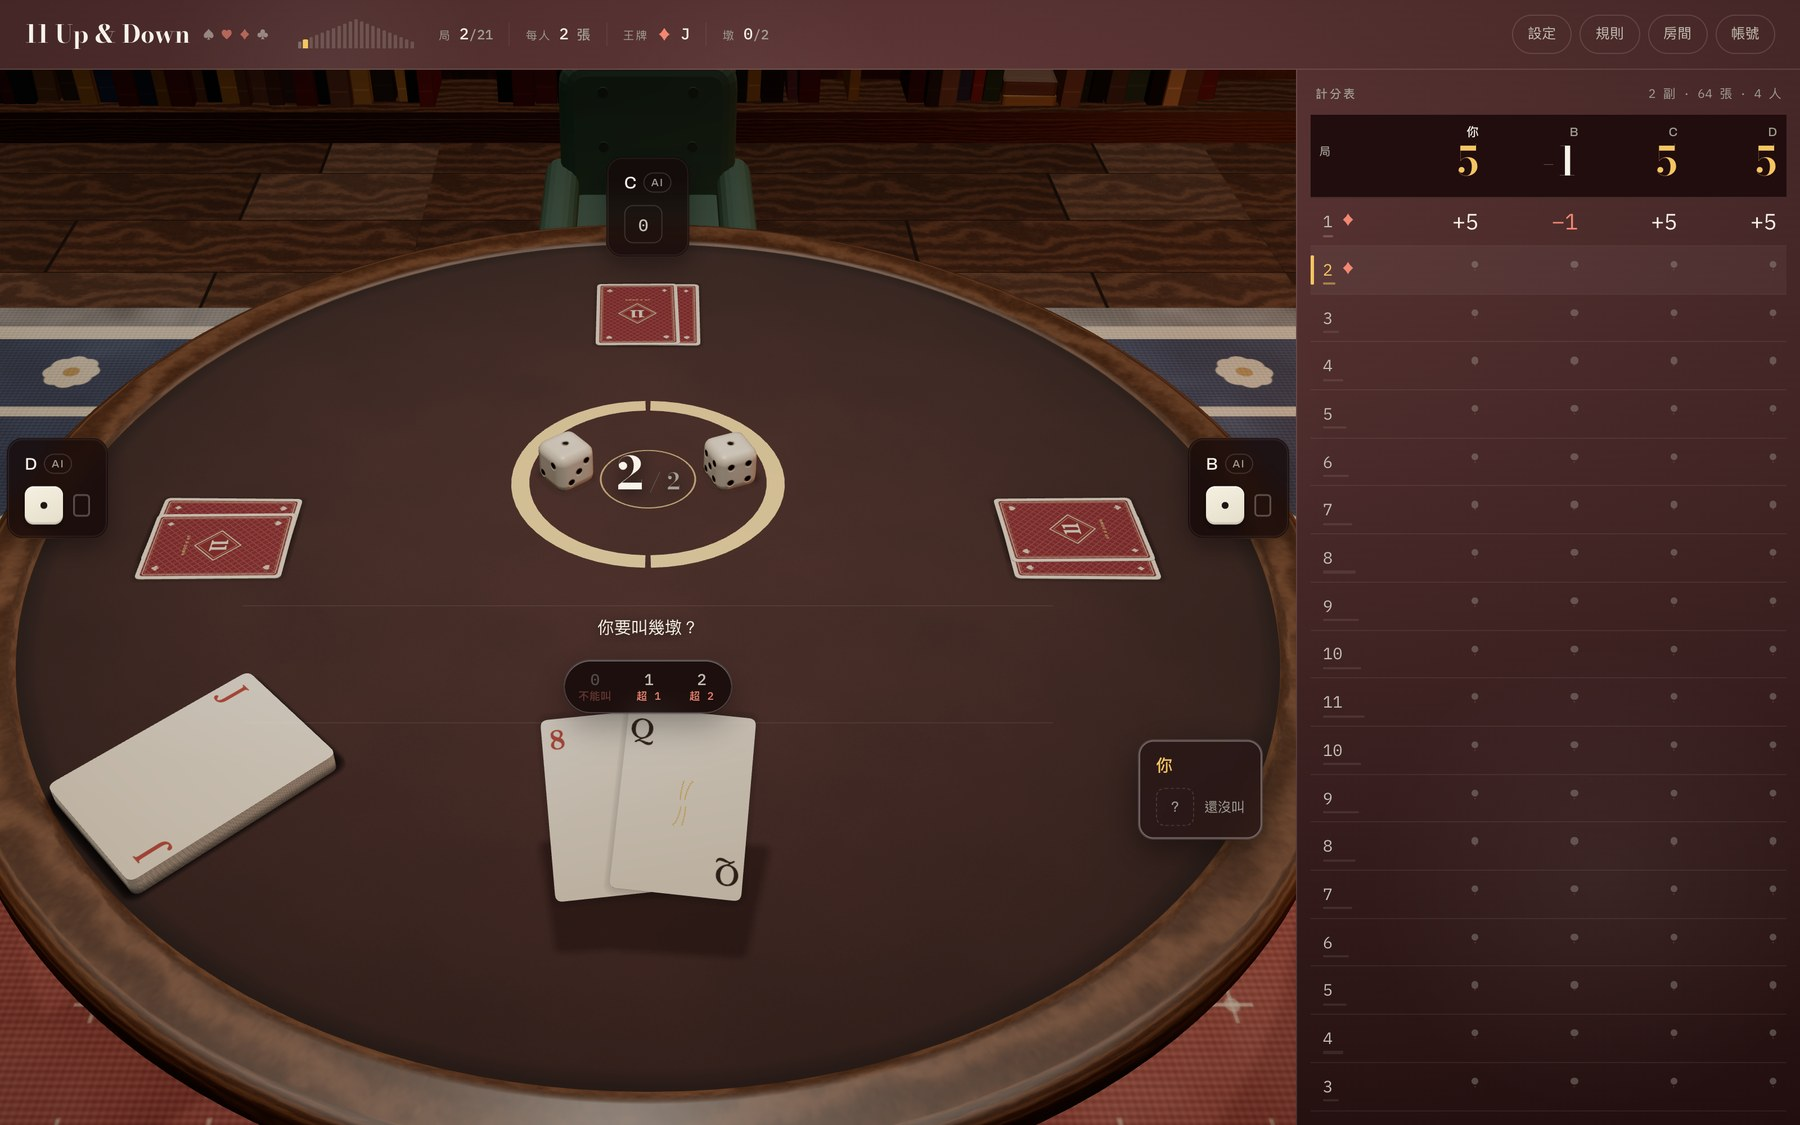
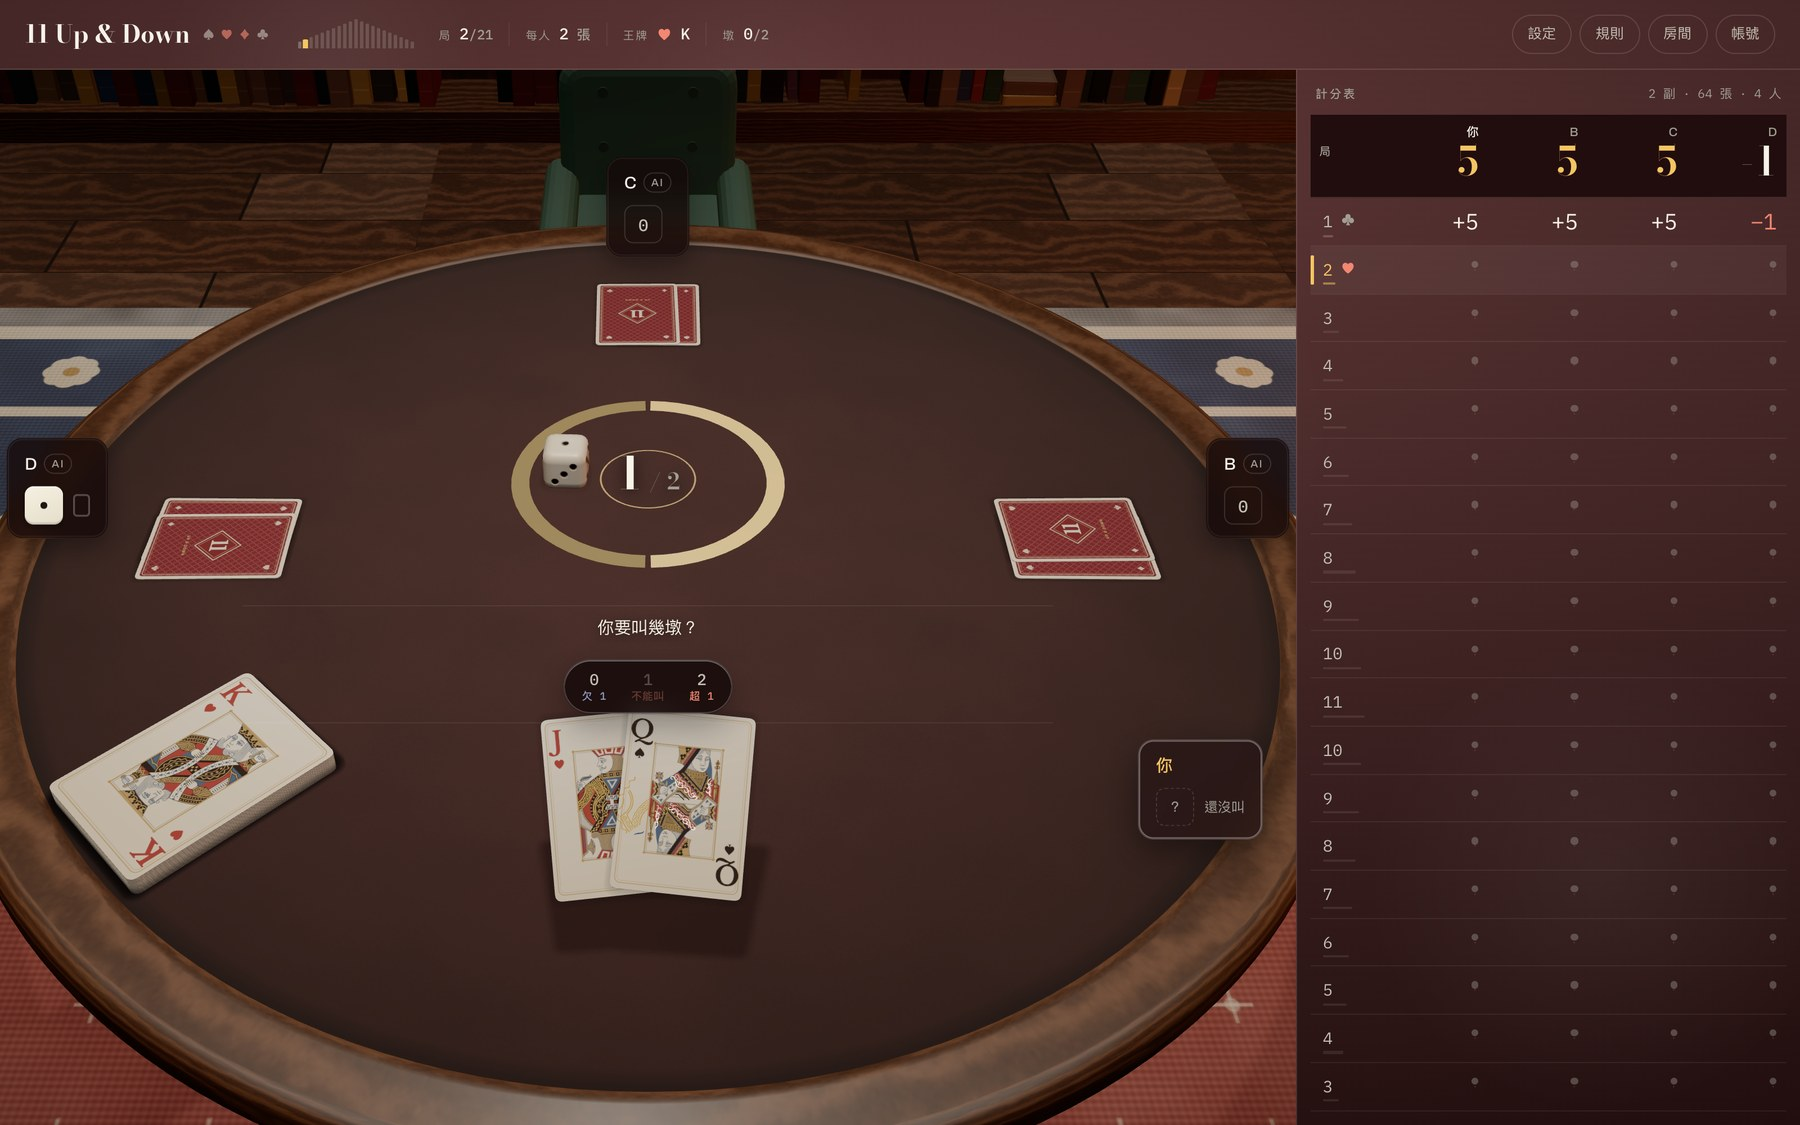
報告的「改之前」換一張可信的：舊版要開 worktree 截，不要自己複製 docs/
原本那張是用「複製一份 docs/ 到暫存資料夾＋自己開 http.server」截的，
結果每張牌都只有角標、中間一片空白——牌面的邊框、點數、人像是一張 SVG <image>
畫進貼圖的，角標的字才是另外用 canvas 疊的，所以那張 SVG 沒載到就長那樣。
Francis 看到第一句就是「怎麼是空白的？」，那是我的截圖方式壞了，不是牌桌壞了。

重截：git worktree add 到前一個 commit，走跟新版完全一樣的 harness
（scripts/_browser.ts ＋ 同一支腳本 ＋ 同樣的 Emulation 1600×1000 DPR2）。
確認舊版牌面是完整的（J♥、Q♠ 人像、牌庫 K♥），空白純粹是截圖環境的問題。

順手多一張 table-before-vs-high.jpg 全幅並排，並把這個坑寫進報告。

Claude-Session: https://claude.ai/code/session_01D7zDEbFhtkX4Eu9ZzB6gxU

diff --git a/agent/reports/0001-3d-fidelity/README.md b/agent/reports/0001-3d-fidelity/README.md
@@ -39,13 +39,27 @@ console 用 `UD.fx()` 看現在幾檔、`UD.fx("high")` 現場換。
 
 | 檔案 | 是什麼 |
 |---|---|
-| `table-before.jpg` | 改之前的立體牌桌（同一個取景，這一場 session 一開始截的） |
+| `table-before.jpg` | 改之前的立體牌桌 |
+| `table-before-vs-high.jpg` | 改之前｜高檔，全幅並排 |
 | `table-high.jpg` | 現在的高檔：銅鑲線、牌的真接觸陰影、牌庫錯開、書櫃有深度 |
 | `table-mid.jpg` | 中檔：沒有 AO 與精算，其餘都在 |
 | `table-low.jpg` | 低檔：後處理整條不建，假的接觸陰影回來 |
 | `proto-A-vs-D.jpg` | 原型的 A（線上舊版）｜D（六層＋三層不做的）全幅並排 |
 | `proto-cards.jpg` | 牌面近拍：亞麻壓紋、層疊的側邊、牌微微拱起 |
 | `proto-chair.jpg` | 椅子：滾邊、釘扣、收分的腳、木扶手蓋 |
+
+## 「改之前」那張是怎麼截的
+
+`git worktree add /tmp/ud-before d842532`（這個 commit 的前一個）開一份獨立的檢出，
+再用**跟新版完全一樣的流程**（`scripts/_browser.ts` ＋ 同一支截圖腳本 ＋ 同樣的
+Emulation 1600×1000 DPR2）截一次。兩張的取景、人數、燈光條件都一樣，只有發到的牌不同。
+
+**踩過一次的坑，記在這裡免得再犯**：第一版的「改之前」是用「複製一份 `docs/` 到暫存資料夾 ＋
+自己開 `python3 -m http.server`」截的，那張圖**每張牌都只有角標、中間一片空白**。
+牌面的邊框、點數、人像是由一張 SVG `<image>` 畫進貼圖的，角標的字是另外用 canvas 疊的
+（`<image>` 載進來的 SVG 是密封的，讀不到頁面字型）——所以那張 SVG 沒載到的時候，
+看起來就是「牌是空白的，但角標還在」。Francis 看到那張圖第一句就是「怎麼是空白的？」。
+**要截舊版一律開 worktree 走原本的測試 harness，不要自己複製 docs/ 另開 server。**
 
 ## 驗證
 
